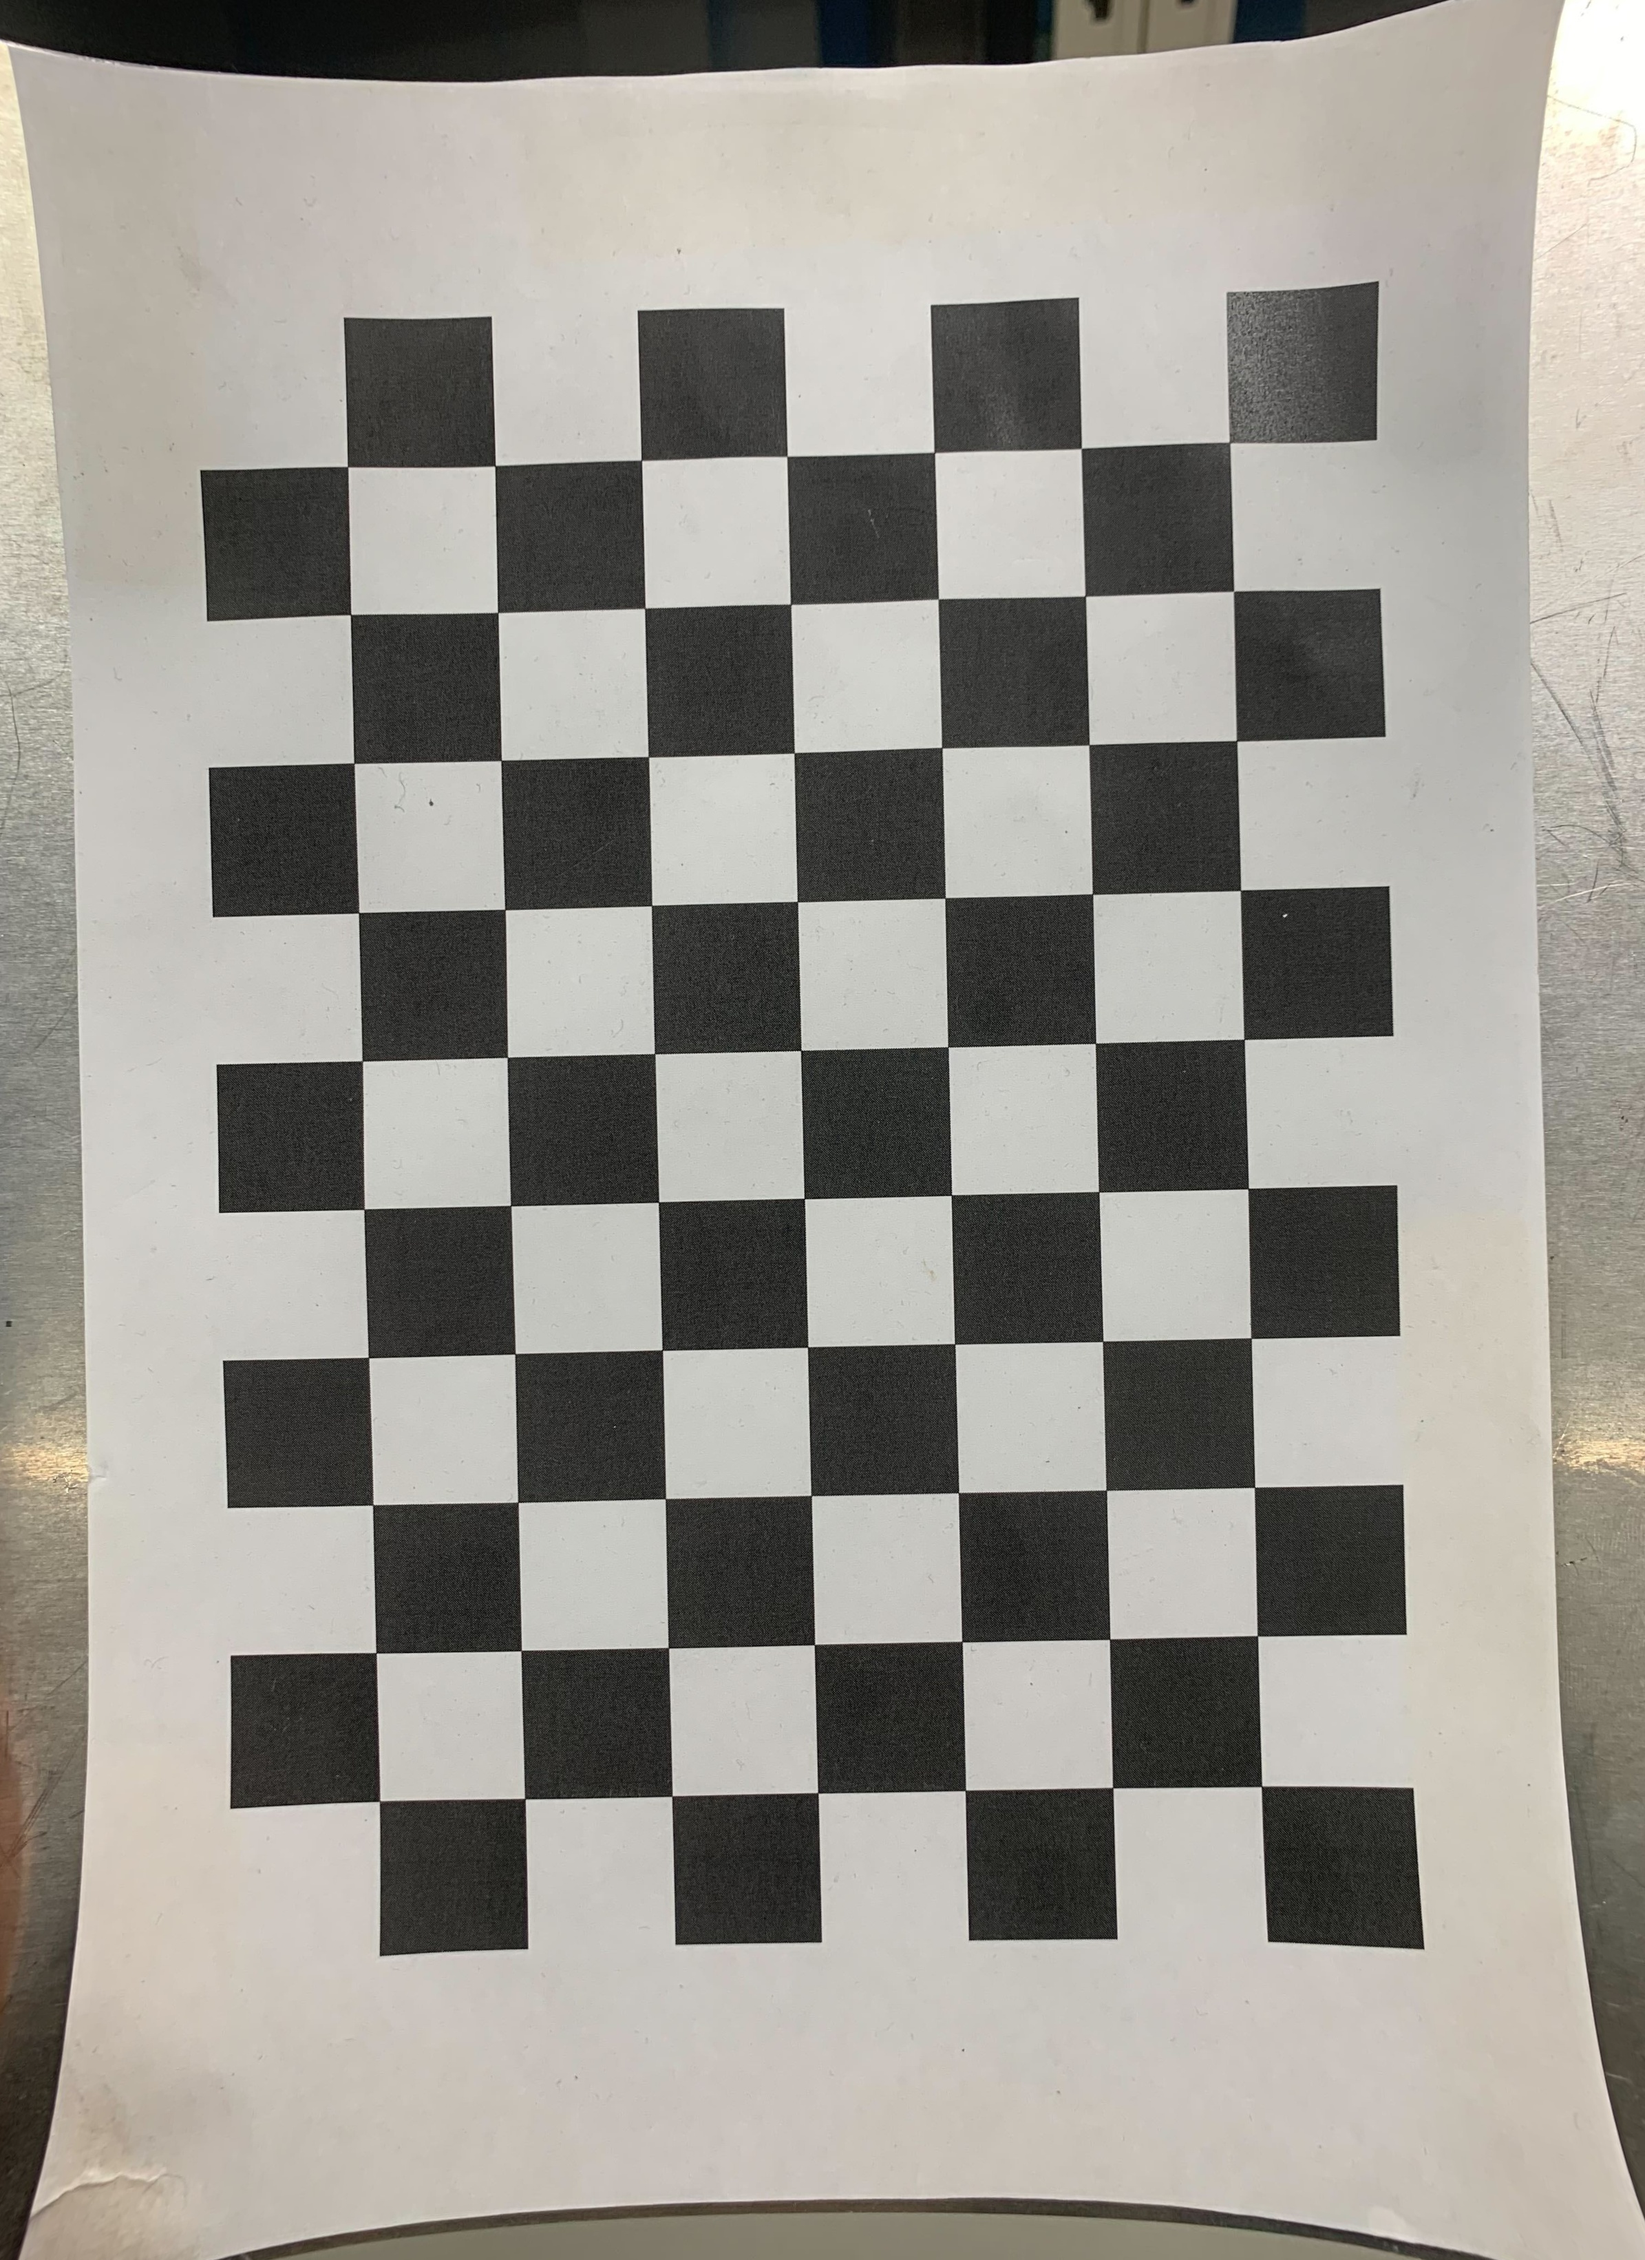
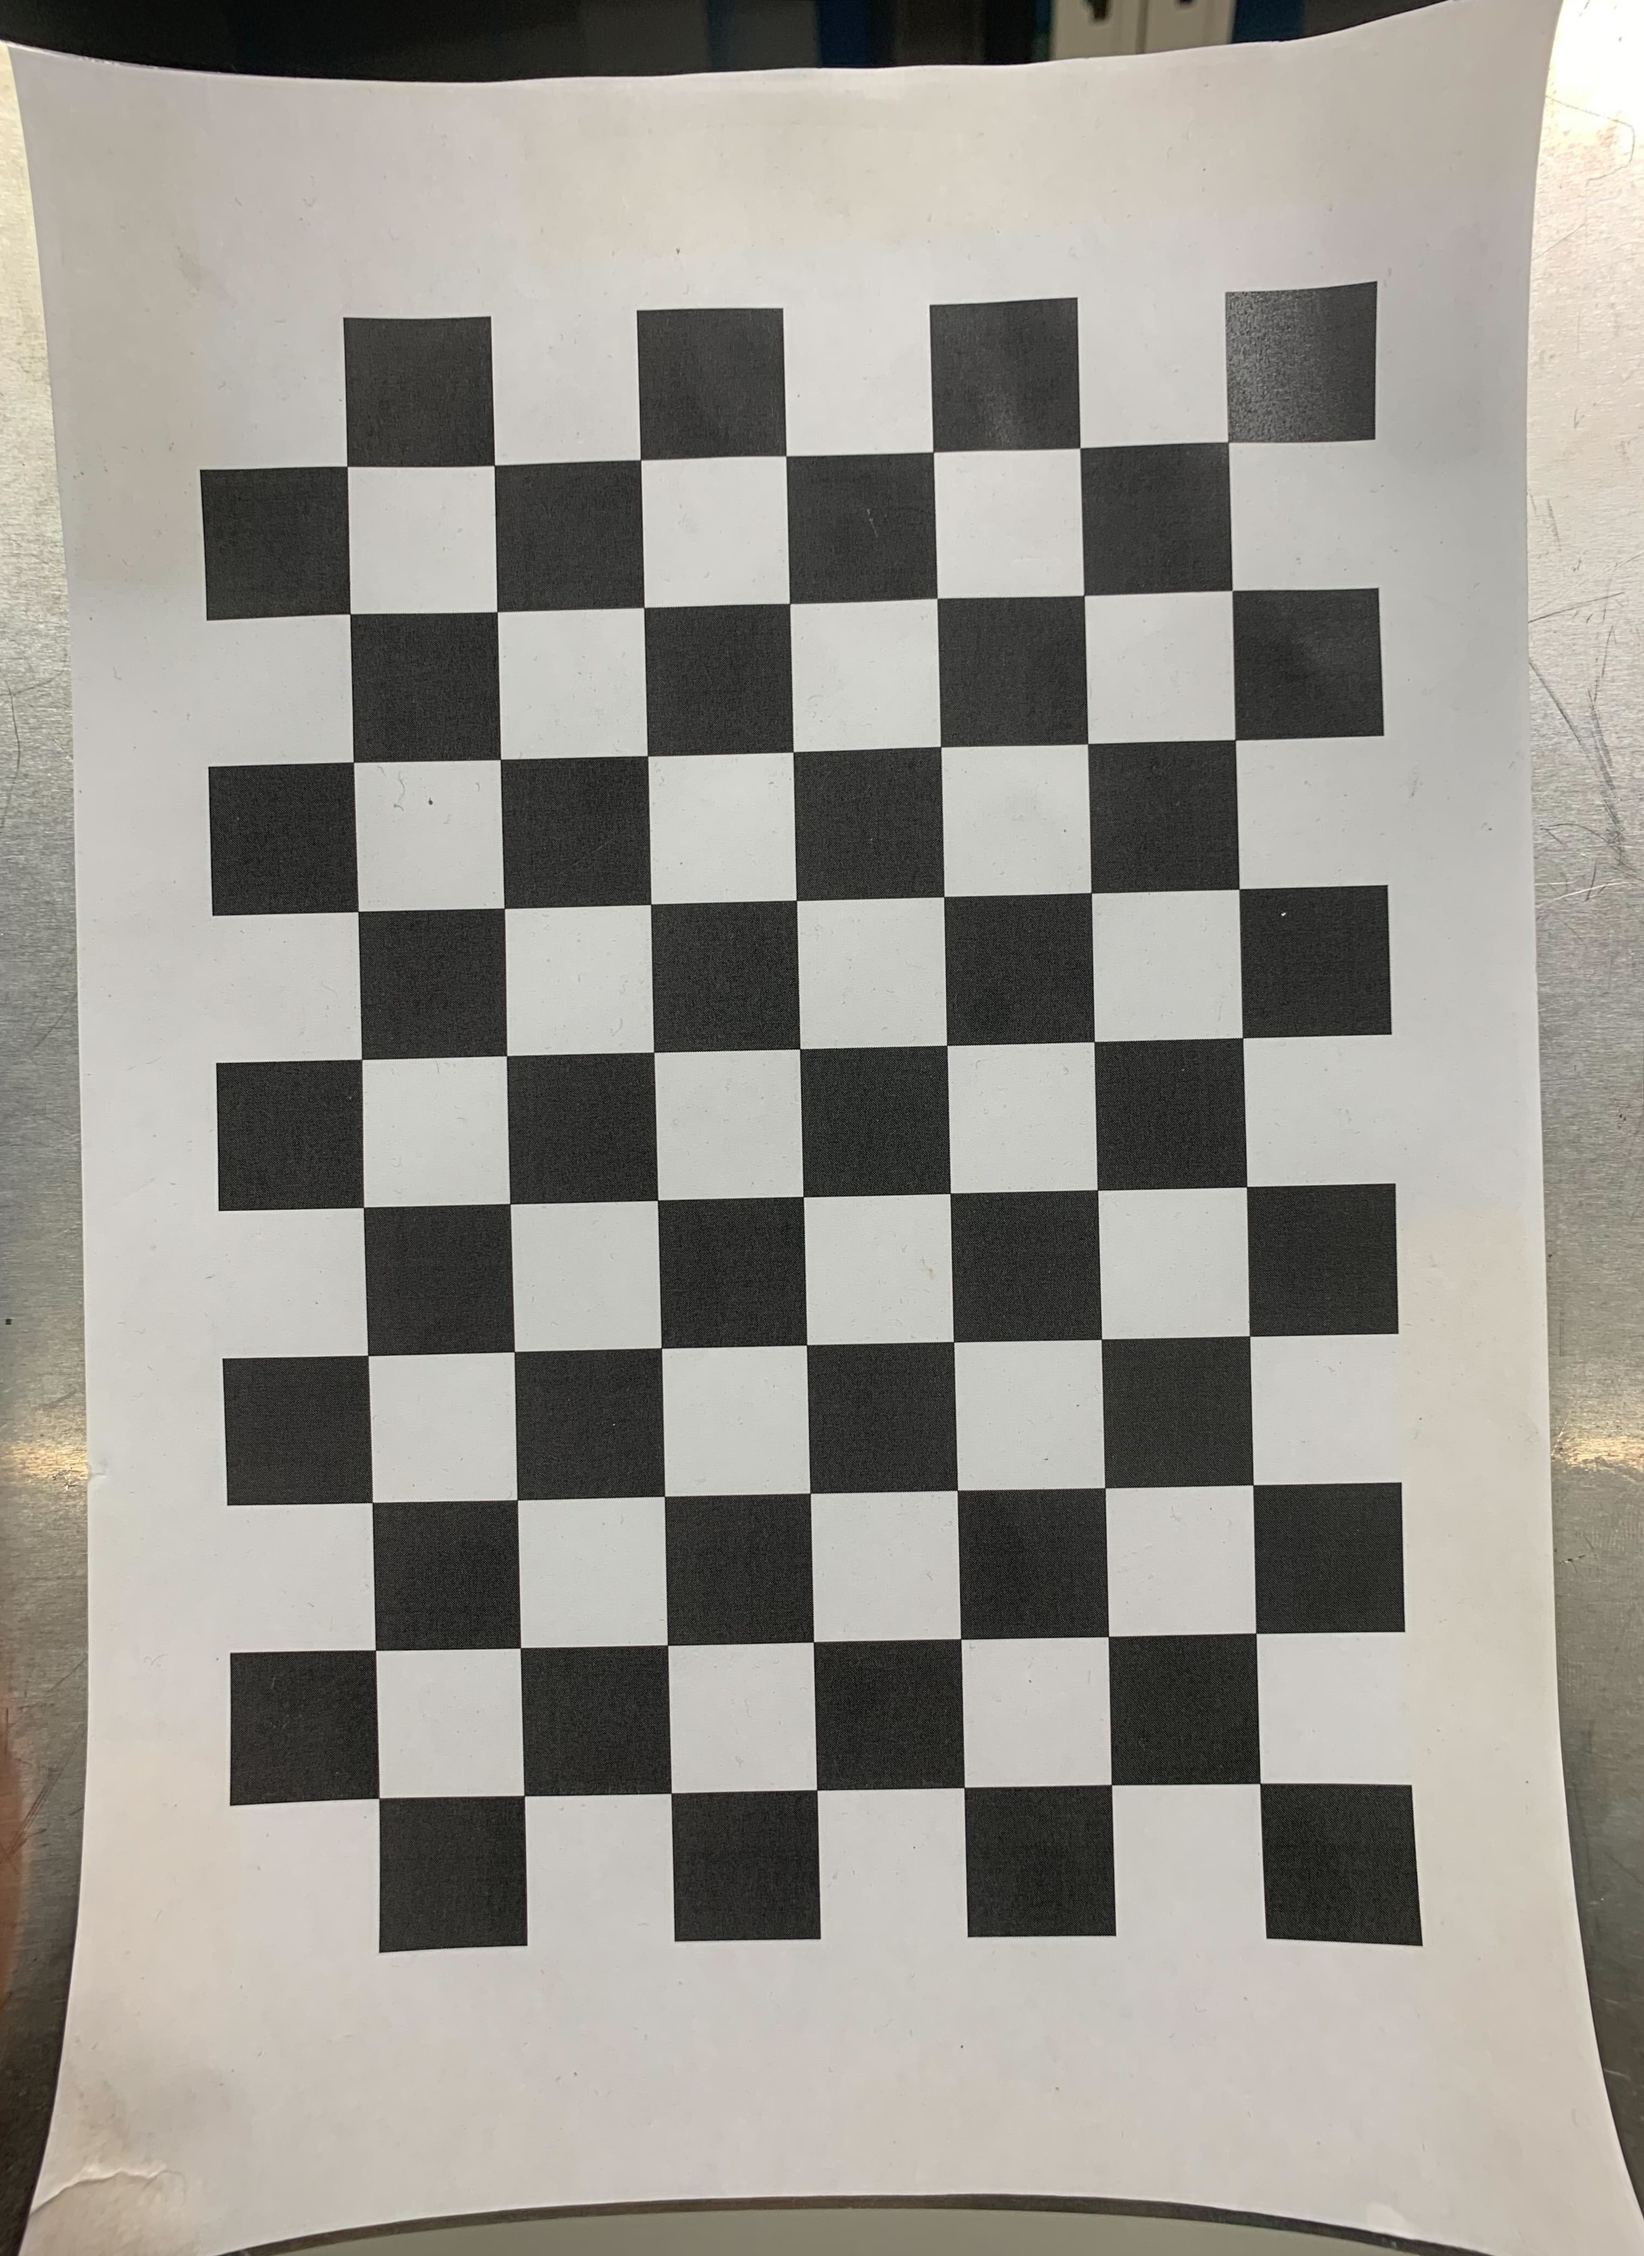
ハードコーディングだが任意の画像を用いてキャリブレーションをできるようにした

diff --git a/calibration_1.py b/calibration_1.py
@@ -88,8 +88,8 @@ class Calbration():
 
         if(len(imgPoints) > 0):
             ret, mtx, dist, rvecs, tvecs = cv2.calibrateCamera(objPoints, imgPoints, self.imageSize, None, None)
-            np.savetxt("mtx.csv", mtx, delimiter=",", fmt="%0.14f") # カメラ行列
-            np.savetxt("dist.csv", dist, delimiter=",", fmt="%0.14f") # 歪みパラメータ
+            np.savetxt("img_20231005T184557_mtx.csv", mtx, delimiter=",", fmt="%0.14f") # カメラ行列
+            np.savetxt("img_20231005T184557_dist.csv", dist, delimiter=",", fmt="%0.14f") # 歪みパラメータ
             # 計算結果を表示
             print("RMS:", ret)
             print("mtx:", mtx)

diff --git a/20231003.py b/20231003.py
@@ -1,3 +1,4 @@
+#!/usr/bin/env python3
 import cv2
 import numpy as np
 
@@ -29,6 +30,6 @@ class Correction():
         return dst
 
 if __name__ ==  "__main__":
-    corr = Correction("mtx.csv", "dist.csv", formatType="csv")
-    img = corr(cv2.imread("IMG_1920.jpg"))
-    cv2.imwrite( "20231003.jpg", img)
+    corr = Correction("img_20231005T184557_mtx.csv", "img_20231005T184557_dist.csv", formatType="csv")
+    img = corr(cv2.imread("img_20231005T184557.jpg"))
+    cv2.imwrite( "img_20231005T184557.jpg", img)
